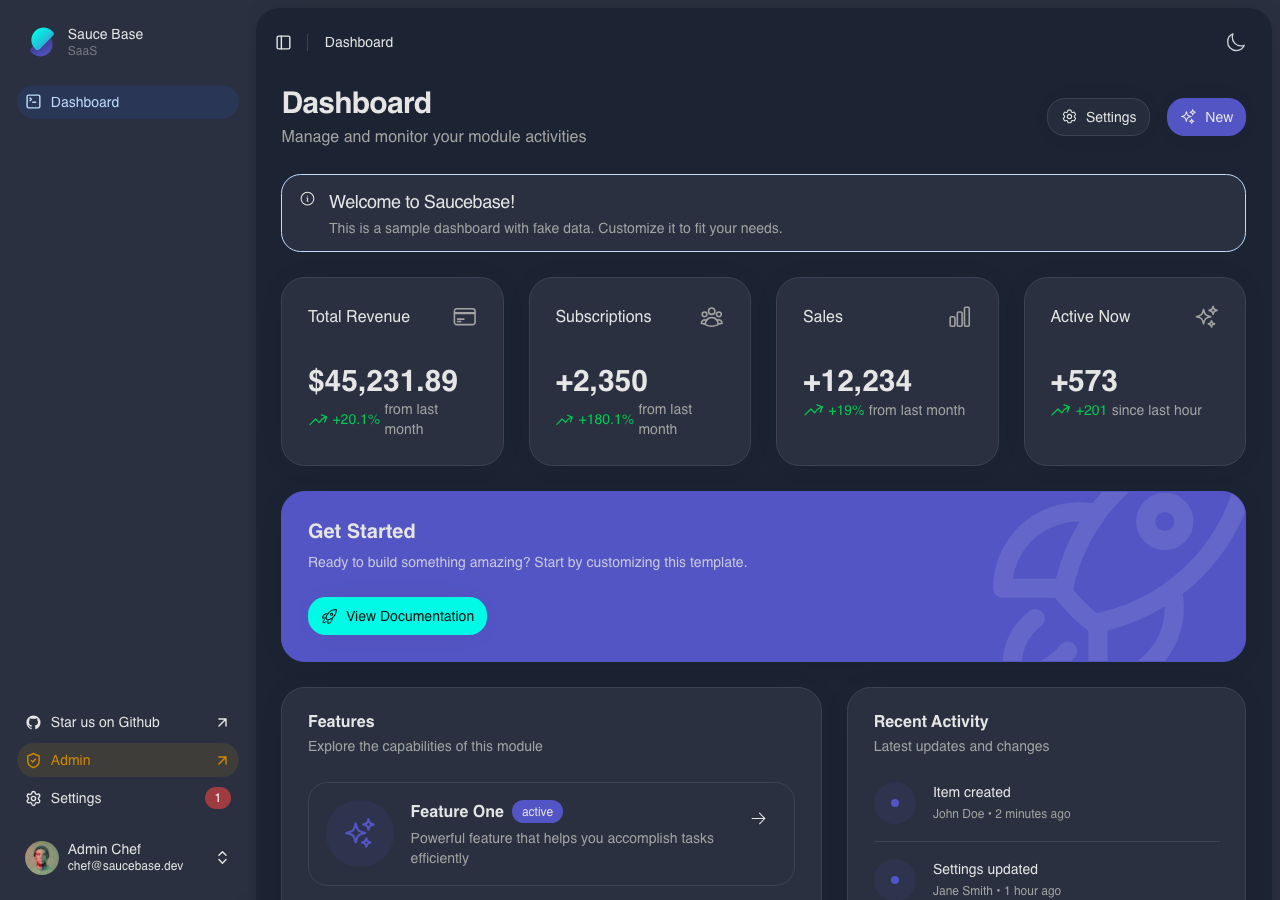
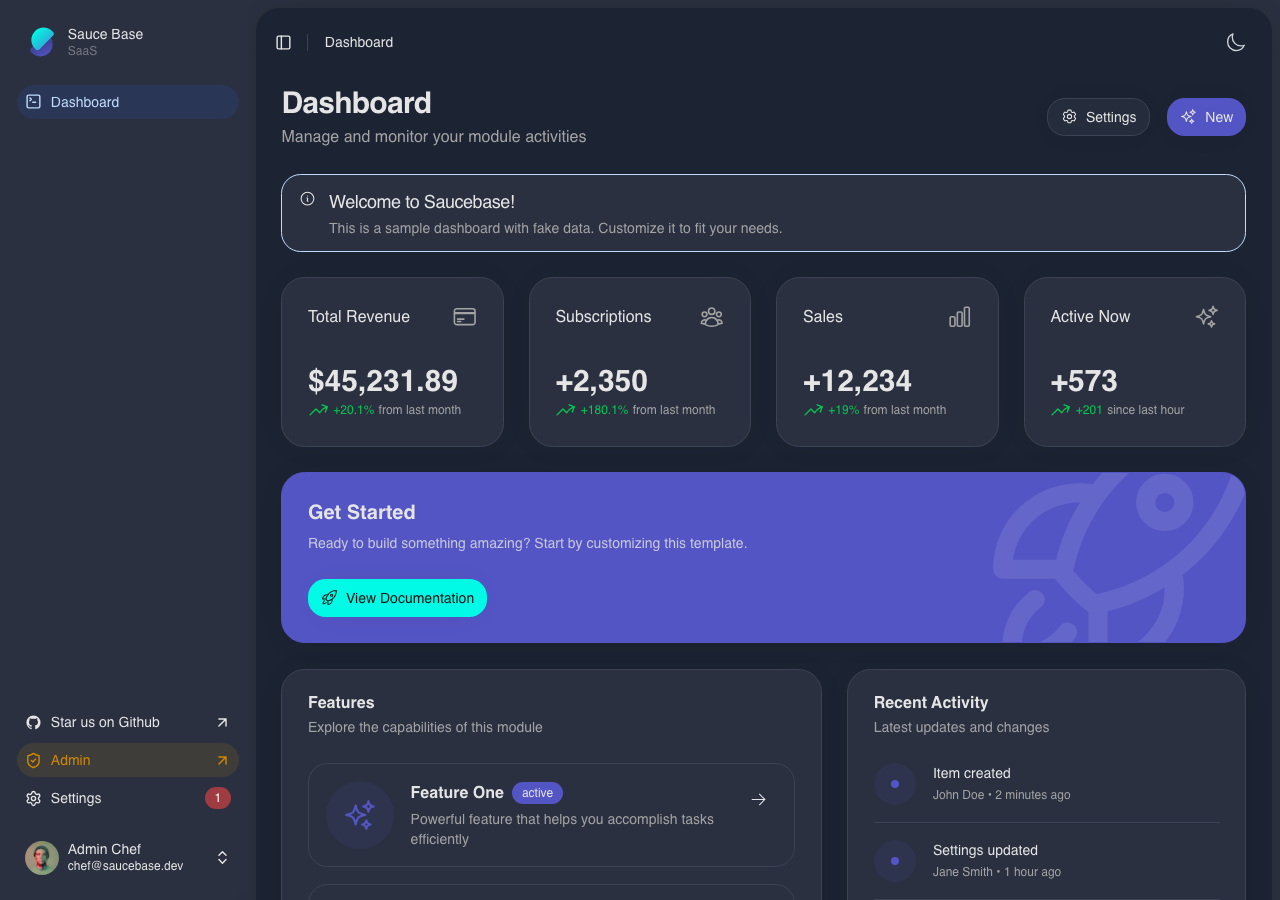
feat: update text size in Dashboard and Index components for better readability

diff --git a/resources/js/pages/Dashboard.vue b/resources/js/pages/Dashboard.vue
@@ -172,7 +172,7 @@ const recentActivity = ref([
                     <CardContent>
                         <div class="text-3xl font-bold">{{ stat.value }}</div>
                         <p
-                            class="text-muted-foreground flex items-center gap-1 text-sm"
+                            class="text-muted-foreground flex items-center gap-1 text-xs"
                         >
                             <component
                                 :is="

diff --git a/stubs/saucebase/recipes/basic/resources/js/pages/Index.vue b/stubs/saucebase/recipes/basic/resources/js/pages/Index.vue
@@ -172,7 +172,7 @@ const recentActivity = ref([
                     <CardContent>
                         <div class="text-3xl font-bold">{{ stat.value }}</div>
                         <p
-                            class="text-muted-foreground flex items-center gap-1 text-sm"
+                            class="text-muted-foreground flex items-center gap-1 text-xs"
                         >
                             <component
                                 :is="
